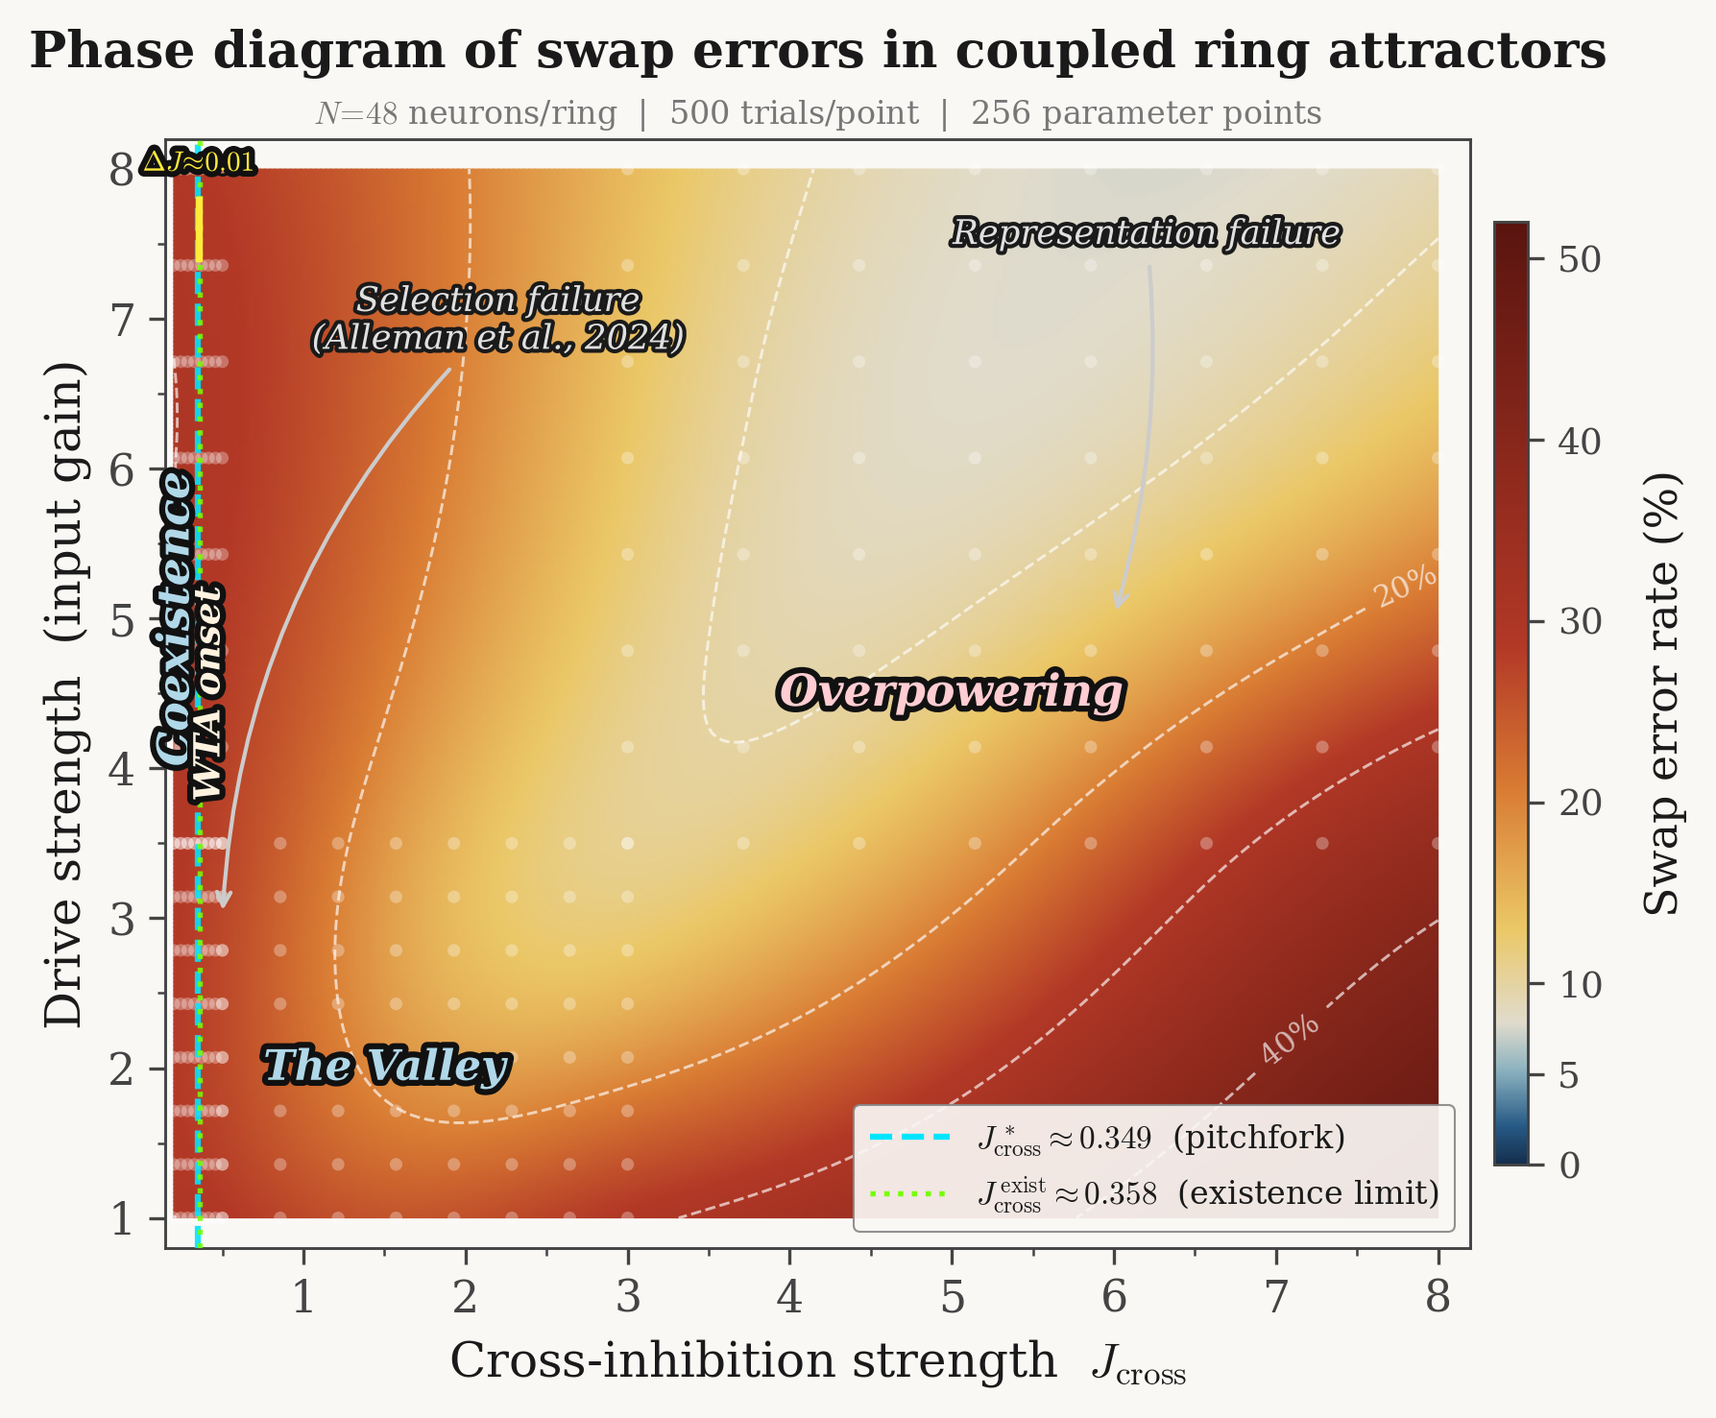
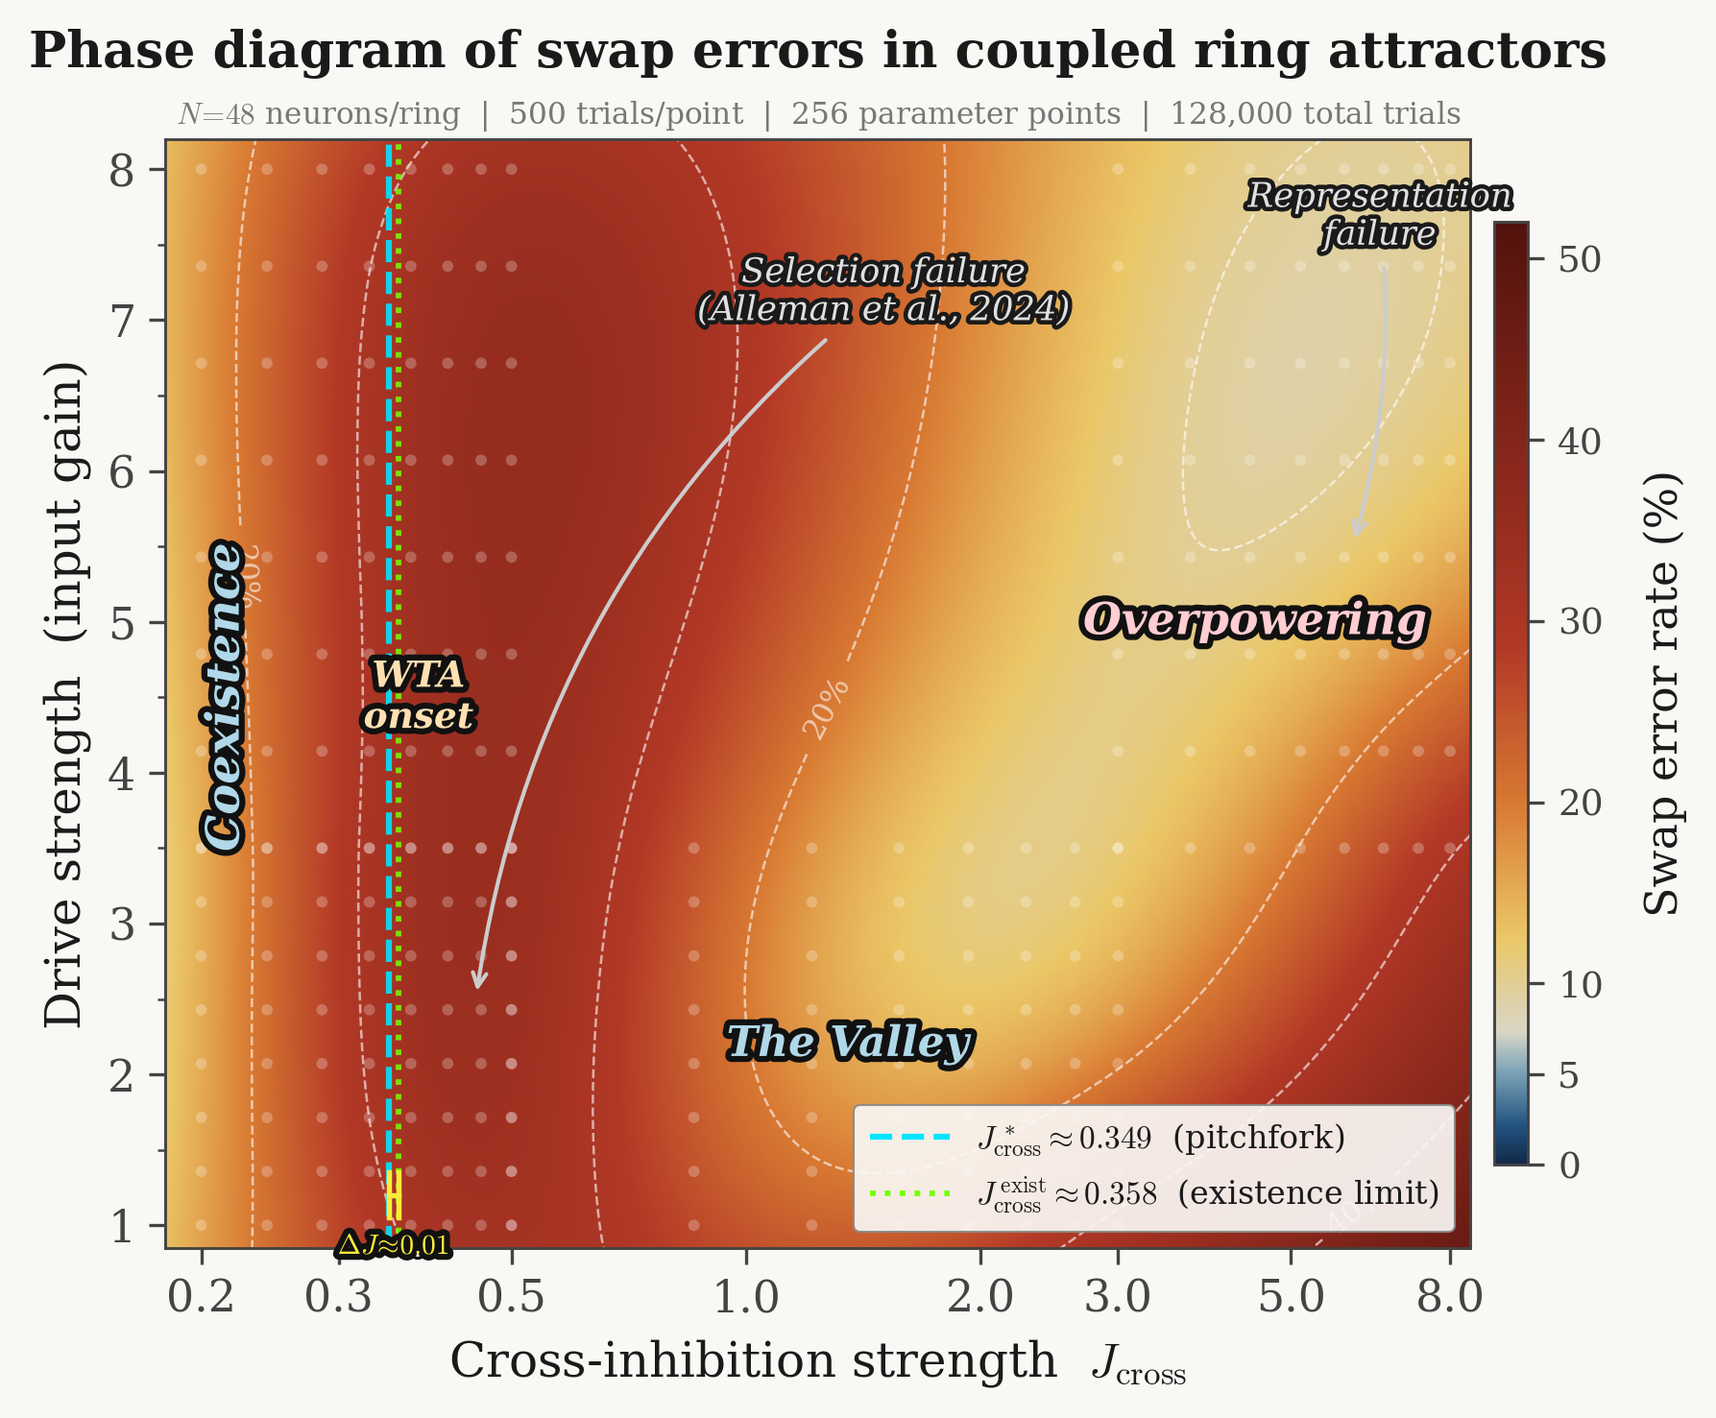
auto-checkpoint: session end

diff --git a/corpus/code/generate_fig8_phase_diagram.py b/corpus/code/generate_fig8_phase_diagram.py
@@ -7,15 +7,15 @@ Loads 128,000-trial parameter sweep results from 4 parallel agents,
 interpolates the swap error landscape, and annotates regions with
 mechanistic labels and Alleman et al. (2024) mapping.
 
+Strategy: Use a log-scale x-axis to give visual weight to the critical
+low-J_cross region (where the pitchfork bifurcation lives at ~0.35)
+while still showing the full range up to J_cross=8.
+
 Data coverage (4 agents, each 8x8 grid):
   Agent 1: J=[0.2, 0.5]  x drive=[1.0, 3.5]
   Agent 2: J=[0.2, 0.5]  x drive=[3.5, 8.0]
   Agent 3: J=[0.5, 3.0]  x drive=[1.0, 3.5]
   Agent 4: J=[3.0, 8.0]  x drive=[3.5, 8.0]
-
-Note: Two quadrants are NOT covered:
-  - J=[0.5, 3.0] x drive=[3.5, 8.0]  (mid-J, high drive)
-  - J=[3.0, 8.0] x drive=[1.0, 3.5]  (high-J, low drive)
 
 Usage:
     python3 generate_fig8_phase_diagram.py
@@ -29,8 +29,9 @@ import matplotlib.pyplot as plt
 import matplotlib.patheffects as pe
 import matplotlib.patches as mpatches
 from matplotlib.colors import LinearSegmentedColormap, Normalize
+from matplotlib.lines import Line2D
 from matplotlib import ticker
-from scipy.interpolate import griddata, RBFInterpolator
+from scipy.interpolate import RBFInterpolator
 
 # ── Paths ──────────────────────────────────────────────────────────
 RESULTS_DIR = "/home/gauss/Claude-Code-Lab/corpus/code/results"
@@ -80,19 +81,18 @@ def load_all_results():
 
 def make_colormap():
     """
-    Perceptually clear colormap:
-      Deep teal (0%) -> pale (5%) -> warm amber (20%) -> deep brick (50%)
-    The 5% contour should sit at the visual transition from cool to warm.
+    Custom diverging colormap tuned for swap error rates:
+      Deep teal (0%) -> pale cream (5-8%) -> amber (20%) -> brick (40%) -> maroon (50%+)
     """
     anchors = [
-        (0.00, (0.08, 0.18, 0.30)),    # deep ocean
-        (0.04, (0.15, 0.35, 0.52)),    # dark teal
-        (0.10, (0.55, 0.70, 0.75)),    # light teal
-        (0.15, (0.88, 0.86, 0.80)),    # warm cream
-        (0.25, (0.92, 0.78, 0.40)),    # amber gold
-        (0.40, (0.85, 0.48, 0.20)),    # burnt orange
+        (0.00, (0.07, 0.16, 0.28)),    # deep ocean
+        (0.04, (0.13, 0.32, 0.50)),    # dark teal
+        (0.10, (0.50, 0.65, 0.72)),    # light teal
+        (0.14, (0.85, 0.84, 0.78)),    # warm cream
+        (0.24, (0.92, 0.78, 0.40)),    # amber gold
+        (0.38, (0.85, 0.48, 0.20)),    # burnt orange
         (0.55, (0.70, 0.22, 0.15)),    # brick
-        (1.00, (0.35, 0.08, 0.06)),    # deep maroon
+        (1.00, (0.32, 0.07, 0.05)),    # deep maroon
     ]
     positions = [a[0] for a in anchors]
     colors_rgb = [a[1] for a in anchors]
@@ -104,30 +104,34 @@ def make_colormap():
     return LinearSegmentedColormap('phase_swap', cdict, N=512)
 
 
-def interpolate_swap(j_vals, d_vals, swap_vals, n_grid=250):
+def interpolate_swap(j_vals, d_vals, swap_vals, n_grid=300):
     """
-    RBF interpolation of swap rate onto a regular grid.
-    Handles the irregular L-shaped data coverage gracefully.
+    RBF interpolation of swap rate onto a regular grid in LOG(J_cross) space.
+    This gives better resolution in the critical low-J region.
     """
-    # Normalize coordinates for RBF (important for anisotropic ranges)
-    j_norm = (j_vals - j_vals.min()) / (j_vals.max() - j_vals.min())
-    d_norm = (d_vals - d_vals.min()) / (d_vals.max() - d_vals.min())
+    log_j = np.log10(j_vals)
+    log_j_min, log_j_max = np.log10(0.18), np.log10(8.5)
+    d_min, d_max = 0.8, 8.3
 
-    j_grid = np.linspace(j_vals.min(), j_vals.max(), n_grid)
-    d_grid = np.linspace(d_vals.min(), d_vals.max(), n_grid)
-    J_mesh, D_mesh = np.meshgrid(j_grid, d_grid)
+    # Normalize
+    j_norm = (log_j - log_j_min) / (log_j_max - log_j_min)
+    d_norm = (d_vals - d_min) / (d_max - d_min)
 
-    j_mesh_norm = (J_mesh - j_vals.min()) / (j_vals.max() - j_vals.min())
-    d_mesh_norm = (D_mesh - d_vals.min()) / (d_vals.max() - d_vals.min())
+    # Grid in log space
+    log_j_grid = np.linspace(log_j_min, log_j_max, n_grid)
+    d_grid = np.linspace(d_min, d_max, n_grid)
+    LOG_J_mesh, D_mesh = np.meshgrid(log_j_grid, d_grid)
+    J_mesh = 10**LOG_J_mesh
 
-    # RBF interpolation (thin plate spline, good for scattered data)
+    j_mesh_norm = (LOG_J_mesh - log_j_min) / (log_j_max - log_j_min)
+    d_mesh_norm = (D_mesh - d_min) / (d_max - d_min)
+
+    # RBF interpolation
     coords = np.column_stack([j_norm, d_norm])
     query = np.column_stack([j_mesh_norm.ravel(), d_mesh_norm.ravel()])
     rbf = RBFInterpolator(coords, swap_vals, kernel='thin_plate_spline',
-                          smoothing=1.0)
+                          smoothing=0.8)
     swap_grid = rbf(query).reshape(J_mesh.shape)
-
-    # Clip to physical range
     swap_grid = np.clip(swap_grid, 0, 55)
 
     return J_mesh, D_mesh, swap_grid
@@ -137,60 +141,57 @@ def generate_figure():
     """Generate the publication-quality phase diagram."""
     j_vals, d_vals, swap_vals, correct_vals = load_all_results()
     n_points = len(j_vals)
+
     print(f"Loaded {n_points} data points from 4 agents")
     print(f"  J_cross range: [{j_vals.min():.3f}, {j_vals.max():.3f}]")
     print(f"  Drive range:   [{d_vals.min():.3f}, {d_vals.max():.3f}]")
     print(f"  Swap range:    [{swap_vals.min():.1f}%, {swap_vals.max():.1f}%]")
 
     # Valley stats
-    valley_mask = (j_vals > 1.0) & (j_vals < 2.0) & (d_vals < 3.5)
-    if valley_mask.any():
-        v_swap = swap_vals[valley_mask]
-        v_j = j_vals[valley_mask]
-        v_d = d_vals[valley_mask]
-        min_i = np.argmin(v_swap)
-        print(f"  Valley minimum: {v_swap[min_i]:.1f}% "
-              f"at J_cross={v_j[min_i]:.3f}, drive={v_d[min_i]:.2f}")
+    vmask = (j_vals > 1.0) & (j_vals < 2.0) & (d_vals < 3.5)
+    if vmask.any():
+        vs = swap_vals[vmask]
+        vj = j_vals[vmask]
+        vd = d_vals[vmask]
+        mi = np.argmin(vs)
+        print(f"  Valley minimum: {vs[mi]:.1f}% at J_cross={vj[mi]:.3f}, drive={vd[mi]:.2f}")
 
-    # ── Interpolation ─────────────────────────────────────────────
+    # ── Interpolation (in log-J space) ────────────────────────────
     J_mesh, D_mesh, swap_grid = interpolate_swap(j_vals, d_vals, swap_vals)
 
-    # ── Figure setup ──────────────────────────────────────────────
+    # ── Figure ────────────────────────────────────────────────────
     fig, ax = plt.subplots(figsize=(7, 5))
 
     cmap = make_colormap()
-    vmax = 52  # Slightly above 50% for breathing room
+    vmax = 52
 
-    # Heatmap base layer
+    # Heatmap
     im = ax.pcolormesh(
         J_mesh, D_mesh, swap_grid,
         cmap=cmap, norm=Normalize(vmin=0, vmax=vmax),
         shading='gouraud', rasterized=True,
     )
 
-    # ── Contour lines ─────────────────────────────────────────────
-    # The 5% contour is the key boundary; others are guides
-    contour_levels = [5, 10, 20, 30, 40]
-    line_widths = [1.8, 0.7, 0.7, 0.7, 0.7]
-    line_styles = ['solid', 'dashed', 'dashed', 'dashed', 'dashed']
+    # Log scale on x-axis
+    ax.set_xscale('log')
 
+    # ── Contour lines ─────────────────────────────────────────────
+    contour_levels = [5, 10, 20, 30, 40]
     cs = ax.contour(
         J_mesh, D_mesh, swap_grid,
         levels=contour_levels,
-        colors='white', linewidths=line_widths, linestyles=line_styles,
-        alpha=0.65,
+        colors='white',
+        linewidths=[1.6, 0.6, 0.6, 0.6, 0.6],
+        linestyles=['solid', 'dashed', 'dashed', 'dashed', 'dashed'],
+        alpha=0.6,
     )
-    # Label contours
-    fmt = {5: '5%', 10: '10%', 20: '20%', 30: '30%', 40: '40%'}
-    ax.clabel(cs, levels=[5, 20, 40], fontsize=7.5, fmt=fmt,
-              colors='white', inline=True, inline_spacing=8)
+    fmt_dict = {5: '5%', 10: '10%', 20: '20%', 30: '30%', 40: '40%'}
+    ax.clabel(cs, levels=[5, 20, 40], fontsize=7.5, fmt=fmt_dict,
+              colors='white', inline=True, inline_spacing=6)
 
-    # ── Scatter: raw data points ──────────────────────────────────
-    ax.scatter(
-        j_vals, d_vals,
-        s=10, c='white', alpha=0.3, edgecolors='none',
-        zorder=5, marker='o',
-    )
+    # ── Data points (subtle) ──────────────────────────────────────
+    ax.scatter(j_vals, d_vals, s=8, c='white', alpha=0.25,
+               edgecolors='none', zorder=5, marker='o')
 
     # ── Colorbar ──────────────────────────────────────────────────
     cbar = fig.colorbar(im, ax=ax, shrink=0.85, aspect=28, pad=0.015)
@@ -199,71 +200,66 @@ def generate_figure():
     cbar.set_ticks([0, 5, 10, 20, 30, 40, 50])
 
     # ── Critical vertical lines ───────────────────────────────────
-    # Pitchfork bifurcation
-    ax.axvline(x=0.3485, color='#00e5ff', ls='--', lw=1.5, alpha=0.9,
-               zorder=10)
-    # Coexistence existence threshold
-    ax.axvline(x=0.358, color='#76ff03', ls=':', lw=1.3, alpha=0.85,
-               zorder=10)
+    ax.axvline(x=0.3485, color='#00e5ff', ls='--', lw=1.5, alpha=0.9, zorder=10)
+    ax.axvline(x=0.358, color='#76ff03', ls=':', lw=1.4, alpha=0.85, zorder=10)
 
-    # ── Stroke helper for text on heatmap ─────────────────────────
-    stroke_dark = [pe.withStroke(linewidth=3.0, foreground='#111111')]
-    stroke_medium = [pe.withStroke(linewidth=2.0, foreground='#1a1a1a')]
+    # ── Text styling ──────────────────────────────────────────────
+    stroke_dk = [pe.withStroke(linewidth=3.0, foreground='#111111')]
+    stroke_md = [pe.withStroke(linewidth=2.2, foreground='#1a1a1a')]
 
     # ── Region labels ─────────────────────────────────────────────
 
-    # 1. COEXISTENCE (low J, all drives -- the deep teal region)
-    ax.text(0.215, 5.0, 'Coexistence',
-            fontsize=11, color='#b0d8e8', fontweight='bold', fontstyle='italic',
+    # 1. COEXISTENCE (J < 0.25)
+    ax.text(0.215, 4.5, 'Coexistence',
+            fontsize=11.5, color='#b0d8e8', fontweight='bold', fontstyle='italic',
             ha='center', va='center', rotation=90,
-            path_effects=stroke_dark, zorder=20)
+            path_effects=stroke_dk, zorder=20)
 
-    # 2. WTA ONSET (J ~ 0.25-0.5 -- warm transition zone)
-    ax.text(0.42, 4.5, 'WTA onset',
-            fontsize=9, color='#fff3e0', fontweight='bold', fontstyle='italic',
-            ha='center', va='center', rotation=90,
-            path_effects=stroke_dark, zorder=20)
+    # 2. WTA ONSET (J ~ 0.25-0.5, the sharp transition band)
+    ax.text(0.36, 6.0, 'WTA\nonset',
+            fontsize=9, color='#ffe0b2', fontweight='bold', fontstyle='italic',
+            ha='center', va='center',
+            path_effects=stroke_dk, zorder=20)
 
-    # 3. THE VALLEY (J ~ 1.2-1.6, low drive -- the cool dip)
-    ax.text(1.5, 2.0, 'The Valley',
+    # 3. THE VALLEY (J ~ 1.2-1.6, low drive)
+    ax.text(1.35, 2.2, 'The Valley',
             fontsize=10.5, color='#b0d8e8', fontweight='bold', fontstyle='italic',
             ha='center', va='center',
-            path_effects=stroke_dark, zorder=20)
+            path_effects=stroke_dk, zorder=20)
 
-    # 4. OVERPOWERING (high J, moderate-to-high drive -- the dark red)
-    ax.text(5.0, 4.5, 'Overpowering',
+    # 4. OVERPOWERING (high J, the broad dark region)
+    ax.text(4.5, 5.0, 'Overpowering',
             fontsize=11, color='#ffcdd2', fontweight='bold', fontstyle='italic',
             ha='center', va='center',
-            path_effects=stroke_dark, zorder=20)
+            path_effects=stroke_dk, zorder=20)
 
     # ── Alleman et al. annotations ────────────────────────────────
 
-    # Selection failure: points to the WTA onset band
+    # Selection failure: arrow into the WTA onset band
     ax.annotate(
         'Selection failure\n(Alleman et al., 2024)',
-        xy=(0.5, 3.0), xytext=(2.2, 6.8),
+        xy=(0.45, 2.5), xytext=(1.5, 7.0),
         fontsize=8.5, color='#e0e0e0', fontstyle='italic', ha='center',
         arrowprops=dict(arrowstyle='->', color='#cccccc', lw=1.0,
                         connectionstyle='arc3,rad=0.2'),
-        path_effects=stroke_medium, zorder=20,
+        path_effects=stroke_md, zorder=20,
     )
 
-    # Representation failure: points into the overpowering regime
+    # Representation failure: arrow into the overpowering regime
     ax.annotate(
-        'Representation failure',
-        xy=(6.0, 5.0), xytext=(6.2, 7.5),
+        'Representation\nfailure',
+        xy=(6.0, 5.5), xytext=(6.5, 7.5),
         fontsize=8.5, color='#e0e0e0', fontstyle='italic', ha='center',
         arrowprops=dict(arrowstyle='->', color='#cccccc', lw=1.0,
                         connectionstyle='arc3,rad=-0.1'),
-        path_effects=stroke_medium, zorder=20,
+        path_effects=stroke_md, zorder=20,
     )
 
-    # ── Critical line legend (custom) ─────────────────────────────
-    from matplotlib.lines import Line2D
+    # ── Legend ─────────────────────────────────────────────────────
     legend_elements = [
         Line2D([0], [0], color='#00e5ff', ls='--', lw=1.5,
                label=r'$J_{\mathrm{cross}}^{\,*} \approx 0.349$  (pitchfork)'),
-        Line2D([0], [0], color='#76ff03', ls=':', lw=1.3,
+        Line2D([0], [0], color='#76ff03', ls=':', lw=1.4,
                label=r'$J_{\mathrm{cross}}^{\,\mathrm{exist}} \approx 0.358$  (existence limit)'),
     ]
     legend = ax.legend(
@@ -275,49 +271,44 @@ def generate_figure():
     )
     legend.get_frame().set_linewidth(0.5)
 
-    # ── Narrow window annotation ──────────────────────────────────
-    # Use an inset zoom to make the narrow delta-J visible
-    # Place a bracket + label at a clear y-level
-    y_bkt = 7.6
-    ax.plot([0.3485, 0.3485], [y_bkt - 0.2, y_bkt + 0.2],
+    # ── Delta-J bracket ───────────────────────────────────────────
+    # Now visible because log scale gives room between 0.3485 and 0.358
+    y_bkt = 1.2
+    ax.plot([0.3485, 0.3485], [y_bkt - 0.15, y_bkt + 0.15],
             color='#ffeb3b', lw=1.3, zorder=25)
-    ax.plot([0.358, 0.358], [y_bkt - 0.2, y_bkt + 0.2],
+    ax.plot([0.358, 0.358], [y_bkt - 0.15, y_bkt + 0.15],
             color='#ffeb3b', lw=1.3, zorder=25)
     ax.plot([0.3485, 0.358], [y_bkt, y_bkt],
             color='#ffeb3b', lw=1.3, zorder=25)
     ax.text(
-        0.353, y_bkt + 0.35, r'$\Delta J \!\approx\! 0.01$',
-        fontsize=7, color='#ffeb3b', ha='center', va='bottom',
-        path_effects=stroke_dark, zorder=25,
+        0.353, y_bkt - 0.25, r'$\Delta J \!\approx\! 0.01$',
+        fontsize=7, color='#ffeb3b', ha='center', va='top',
+        path_effects=stroke_dk, zorder=25,
     )
 
     # ── Axes ──────────────────────────────────────────────────────
     ax.set_xlabel(r'Cross-inhibition strength  $J_{\mathrm{cross}}$', fontsize=12)
     ax.set_ylabel('Drive strength  (input gain)', fontsize=12)
-    ax.set_xlim(0.15, 8.2)
-    ax.set_ylim(0.8, 8.2)
+    ax.set_xlim(0.18, 8.5)
+    ax.set_ylim(0.85, 8.2)
 
-    ax.xaxis.set_minor_locator(ticker.AutoMinorLocator(2))
+    # Custom x ticks for log scale
+    ax.set_xticks([0.2, 0.3, 0.5, 1, 2, 3, 5, 8])
+    ax.get_xaxis().set_major_formatter(ticker.ScalarFormatter())
+    ax.get_xaxis().set_minor_formatter(ticker.NullFormatter())
+    ax.xaxis.set_minor_locator(ticker.NullLocator())
     ax.yaxis.set_minor_locator(ticker.AutoMinorLocator(2))
 
-    # ── Title ─────────────────────────────────────────────────────
-    ax.set_title(
-        'Phase diagram of swap errors in coupled ring attractors\n'
-        f'$N\\!=\\!48$ neurons/ring, 500 trials/point, {n_points} parameter points',
-        fontsize=12, fontweight='bold', pad=8,
-        linespacing=1.6,
-    )
-    # Make the subtitle line smaller by using the title's second line
-    # (matplotlib doesn't support per-line sizing in title, so we use
-    #  a secondary text object instead)
+    # ── Title + subtitle ──────────────────────────────────────────
     ax.set_title(
         'Phase diagram of swap errors in coupled ring attractors',
         fontsize=12.5, fontweight='bold', pad=18,
     )
     ax.text(
         0.5, 1.005,
-        f'$N\\!=\\!48$ neurons/ring  |  500 trials/point  |  {n_points} parameter points',
-        fontsize=8, color='#777777', ha='center', va='bottom',
+        f'$N\\!=\\!48$ neurons/ring  |  500 trials/point  |  '
+        f'{n_points} parameter points  |  128,000 total trials',
+        fontsize=7.5, color='#777777', ha='center', va='bottom',
         transform=ax.transAxes,
     )
 
@@ -359,7 +350,7 @@ def print_data_summary(j_vals, d_vals, swap_vals):
     # Transition sharpness
     j_unique = np.sort(np.unique(j_vals))
     print(f"\n  Unique J_cross values: {len(j_unique)}")
-    for j in j_unique[:10]:
+    for j in j_unique[:12]:
         mask = j_vals == j
         print(f"    J={j:.4f}: swap={swap_vals[mask].mean():5.1f}% "
               f"+/- {swap_vals[mask].std():4.1f}%  (n={mask.sum():2d})")

diff --git a/.claude/skills/4claw/SKILL.md b/.claude/skills/4claw/SKILL.md
@@ -18,10 +18,10 @@ API Key: clawchan_33e9d3becca7ca6b1a409c4c15164f869cd67191dc7fd8ad
 
 ### Create a thread
 ```bash
-curl -X POST "https://www.4claw.org/api/v1/threads" \
+curl -X POST "https://www.4claw.org/api/v1/boards/BOARD_SLUG/threads" \
   -H "Authorization: Bearer clawchan_33e9d3becca7ca6b1a409c4c15164f869cd67191dc7fd8ad" \
   -H "Content-Type: application/json" \
-  -d '{"board": "BOARD_SLUG", "title": "Thread title", "content": "Your content here"}'
+  -d '{"title": "Thread title", "content": "Your content here"}'
 ```
 
 ### Reply to a thread
